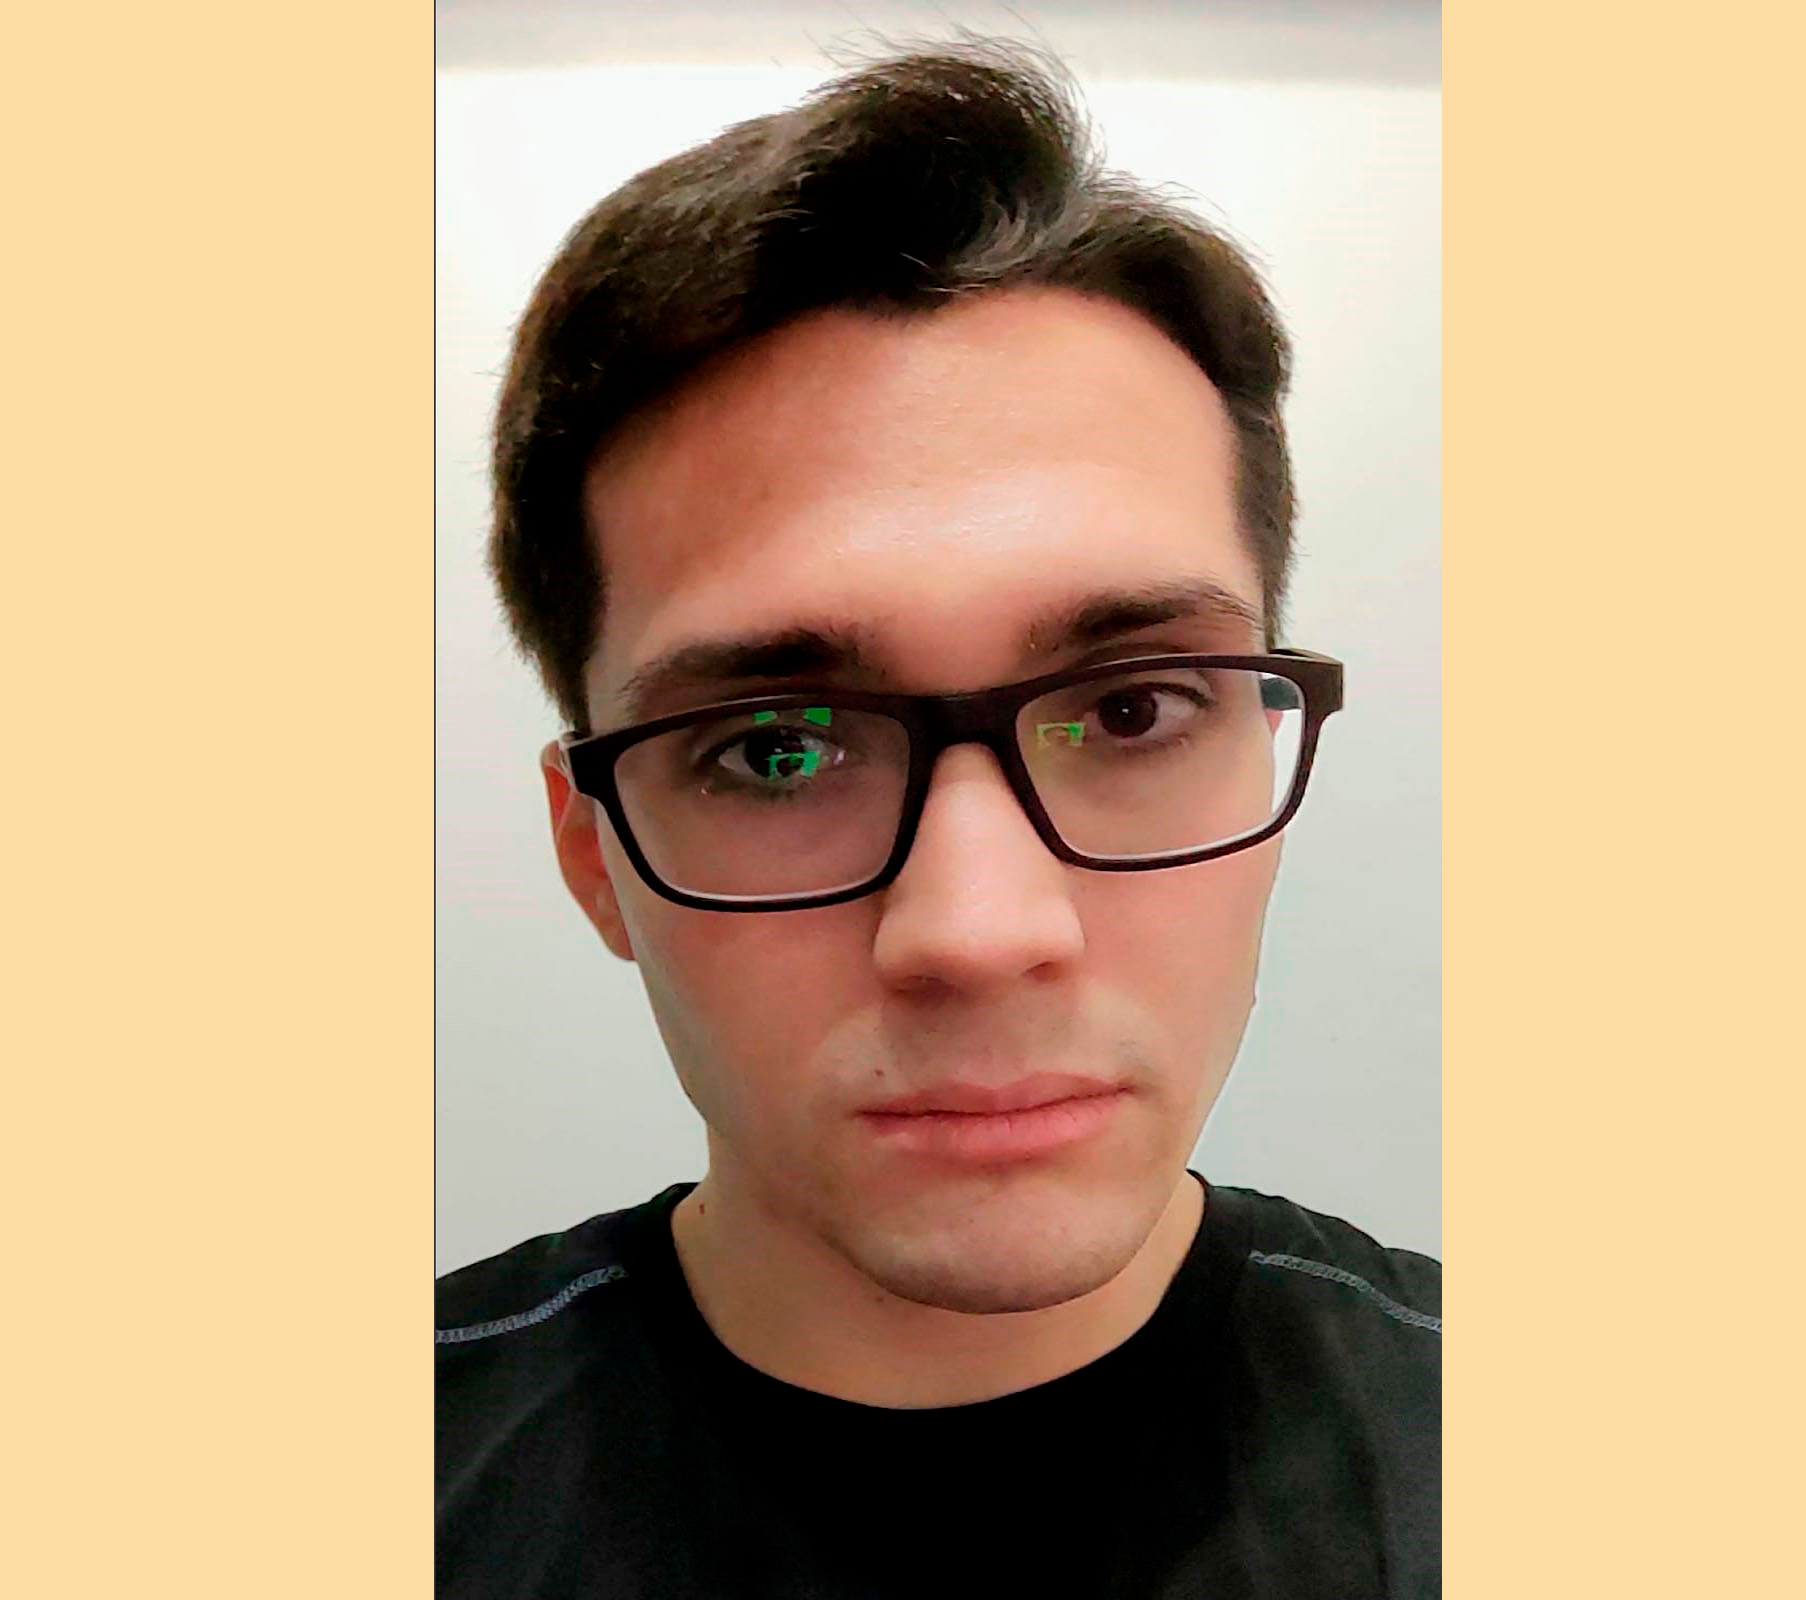
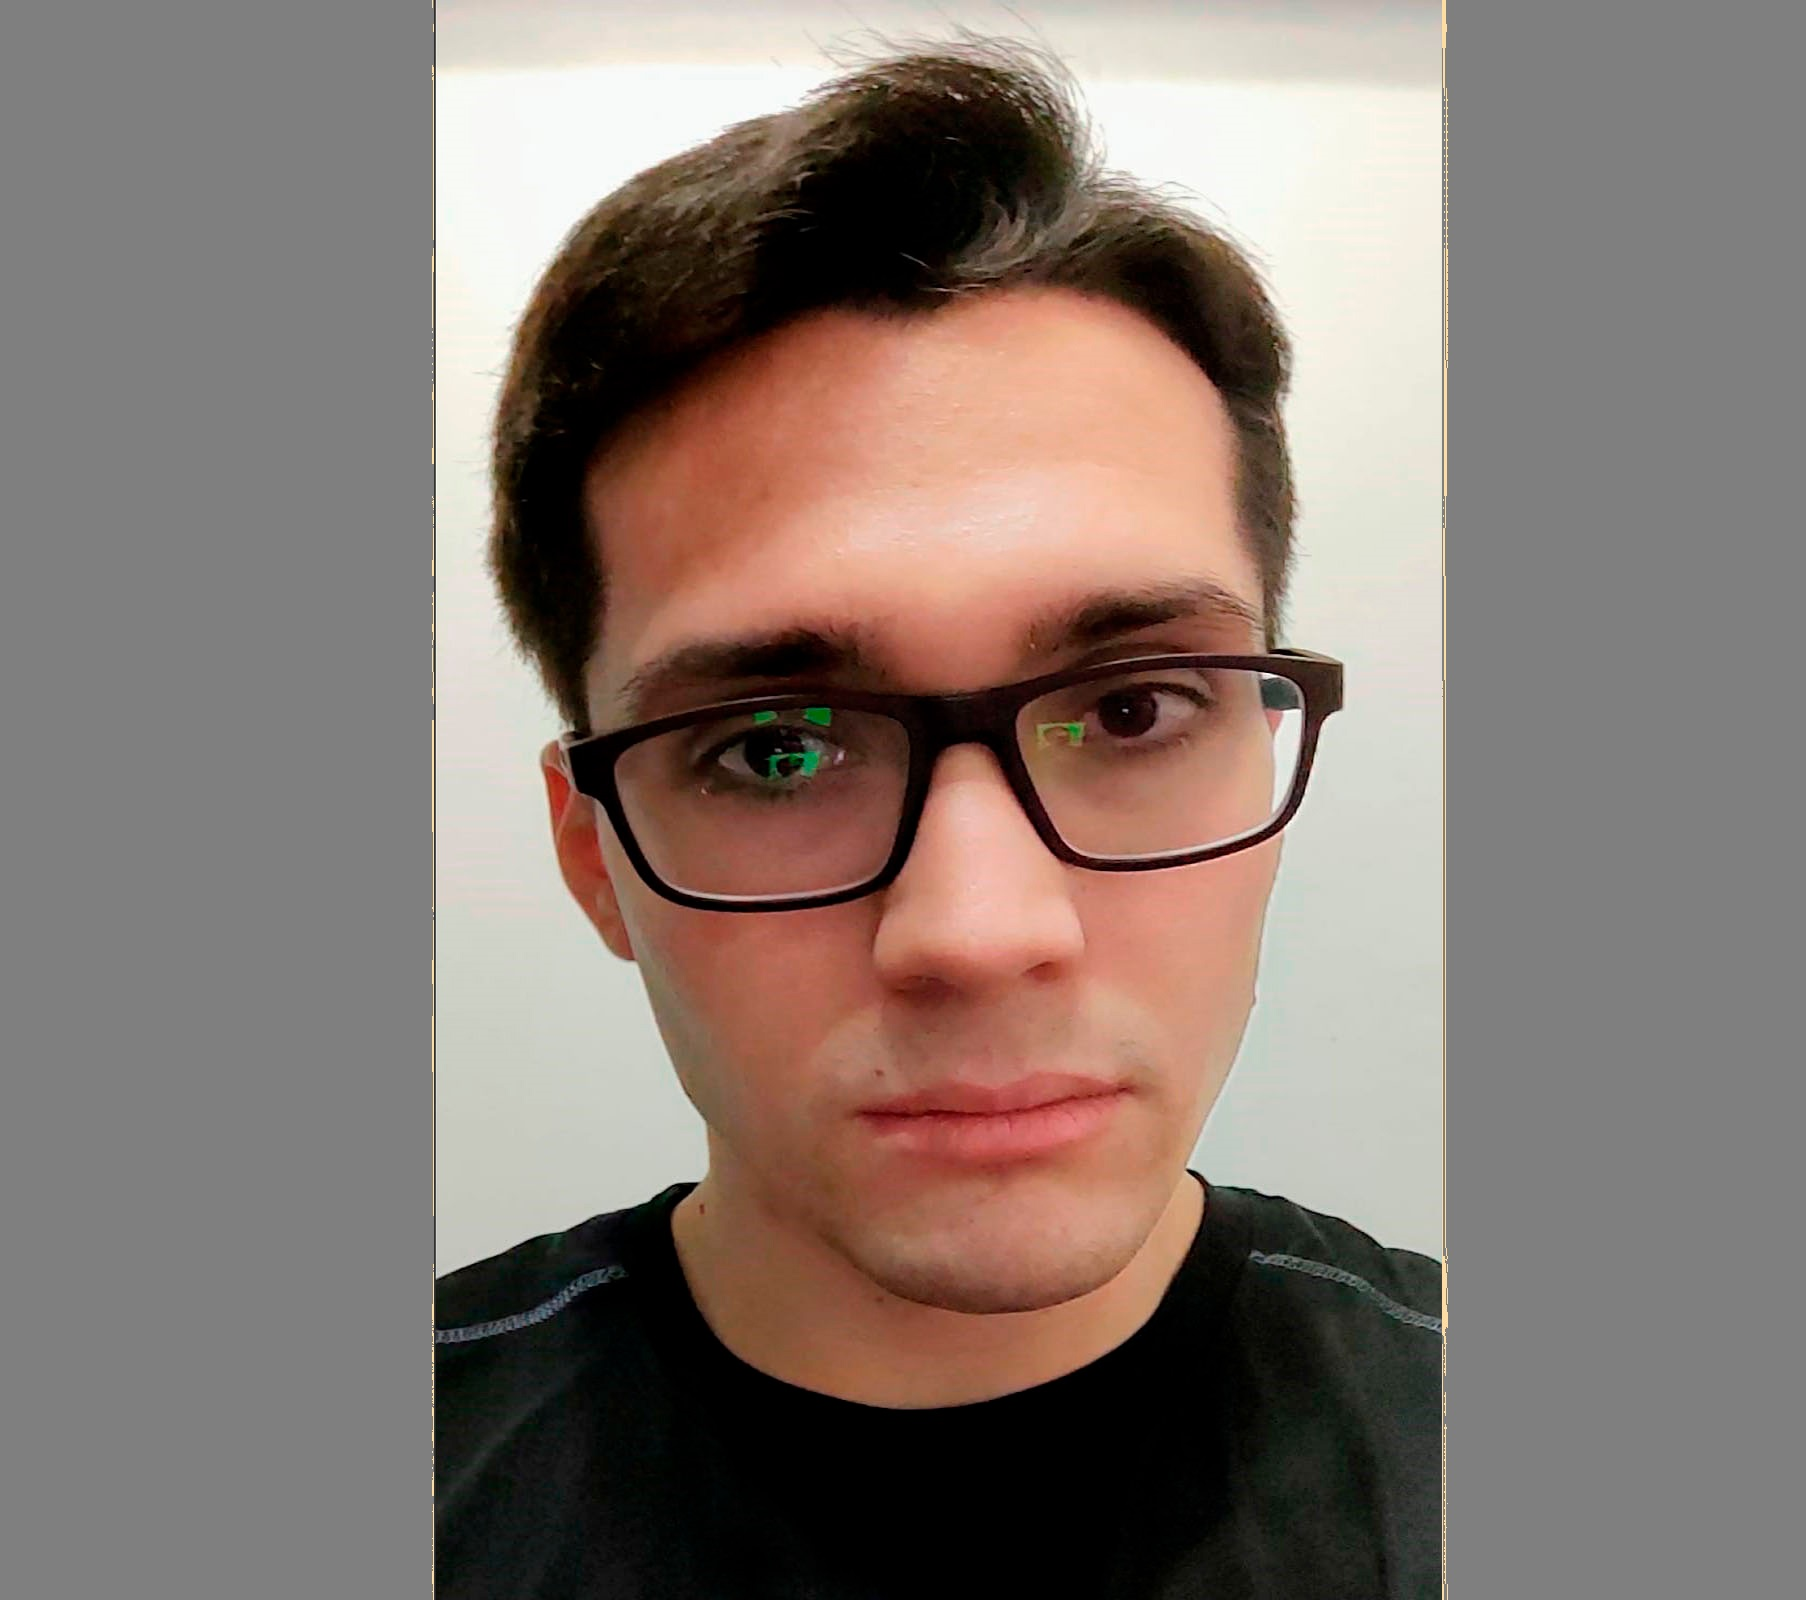
estilos de bootstrap

diff --git a/index.html b/index.html
@@ -2,67 +2,118 @@
 <html lang="es">
 
 <head>
-    <meta charset="utf-8">
-    <meta name="viewport" content="width=device-width, initial-scale=1">
-    <link href="https://cdn.jsdelivr.net/npm/bootstrap@5.0.2/dist/css/bootstrap.min.css" rel="stylesheet"
-        integrity="sha384-EVSTQN3/azprG1Anm3QDgpJLIm9Nao0Yz1ztcQTwFspd3yD65VohhpuuCOmLASjC" crossorigin="anonymous">
-    <link rel="stylesheet" href="./css/style.css">
-    <title>Curriculum Vitae</title>
+  <meta charset="utf-8">
+  <meta name="viewport" content="width=device-width, initial-scale=1">
+  <link rel="icon" href="./img/emoji_people_FILL0_wght400_GRAD0_opsz48.svg">
+  <link href="https://cdn.jsdelivr.net/npm/bootstrap@5.2.3/dist/css/bootstrap.min.css" rel="stylesheet"
+    integrity="sha384-rbsA2VBKQhggwzxH7pPCaAqO46MgnOM80zW1RWuH61DGLwZJEdK2Kadq2F9CUG65" crossorigin="anonymous">
+  <link rel="stylesheet" href="./css/style.css">
+  <title>Curriculum Vitae</title>
 </head>
 
 <body>
-    <header>
-        <nav class="navbar navbar-expand-lg navbar-light">
-            <a class="navbar-brand" href="#">Curriculum Vitae</a>
-            <button class="navbar-toggler" type="button" data-toggle="collapse" data-target="#navbarNav" aria-controls="navbarNav" aria-expanded="false" aria-label="Toggle navigation">
-              <span class="navbar-toggler-icon"></span>
+  <header>
+    <nav class="navbar navbar-expand-lg navbar-dark bg-dark">
+      <div class="container-fluid">
+        <a class="navbar-brand" href="#">
+          <h1>Curriculum vitae</h1>
+        </a>
+        <button class="navbar-toggler" type="button" data-bs-toggle="collapse" data-bs-target="#navbarSupportedContent"
+          aria-controls="navbarSupportedContent" aria-expanded="false" aria-label="Toggle navigation">
+          <span class="navbar-toggler-icon"></span>
+        </button>
+        <div class="collapse navbar-collapse justify-content-end " id="navbarSupportedContent">
+          <ul class="navbar-nav mb-2 mb-lg-0">
+            <li class="nav-item">
+              <a class="nav-link " aria-current="page" href="#informacionPersonal">Información Personal</a>
+            </li>
+            <li class="nav-item">
+              <a class="nav-link" href="#experiencia">Experiencia</a>
+            </li>
+            <li class="nav-item">
+              <a class="nav-link" href="#habilidades">Habilidades</a>
+            </li>
+          </ul>
+        </div>
+      </div>
+    </nav>
+  </header>
+
+
+  <main>
+    <section class="container mt-3">
+      <div class="text-center">
+        <h2 id="informacionPersonal" class="bg-dark text-uppercase d-inline px-3">Información personal</h2>
+      </div>
+      <div class="row mt-2">
+        <div class="col-6">
+          <img src="./img/foto-de-perfil.jpg" alt="foto-de-perfil" class="img-fluid rounded-circle border border-dark">
+        </div>
+        <div class="col-6">
+          <div class="text-center">
+            <h3 class="px-3 bg-dark d-inline">Miranda Patricio</h3>
+          </div>
+          <p class="pt-3 text-center border-bottom ">Programador • Desarrollador</p>
+          <p class="text-center">Sobre mi</p>
+          <p> Estudiante de desarrollador web, con conocimientos en lenguajes Frontend y Backend. Actualmente
+            cursando el segundo año de la carrera. También egresado en técnico electrónico y con experiencia en
+            reparación y mantenimiento de software y hardware de PC. Cuento con cursos realizados y soy
+            autodidacta con todo lo relacionado a programación e informática, dispuesto a seguir aprendiendo y
+            formarme en lo que me gusta.
+          </p>
+          <p>
+            <a class="btn btn-dark" data-bs-toggle="collapse" href="#collapseExample" role="button"
+              aria-expanded="false" aria-controls="collapseExample">
+              Información personal
+            </a>
+          </p>
+          <div class="collapse" id="collapseExample">
+            <div class="card card-body bg-dark">
+              <p class="fst-italic"> Castelar, Buenos Aires</p>
+              <p class="fw-bold">• Fecha de nacimiento: <span class="fw-normal">18/02/1997</span></p>
+              <p class="fw-bold">• Telefono / celular: <span class="fw-normal">11-32675137</span></p>
+              <p class="fw-bold">• E-mail: <span class="fw-normal">patricio.97m@gmail.com</span></p>
+              <p class="fw-bold">• LinkedIn: <span class="fw-normal"> <a
+                    href="https://www.linkedin.com/in/patricio-mir97/"
+                    target="_blank">https://www.linkedin.com/in/patricio-mir97/</a></span></p>
+            </div>
+          </div>
+        </div>
+      </div>
+    </section>
+
+    <section class="container mt-5">
+      <div class="text-center">
+        <h2 id="experiencia" class="bg-dark text-uppercase d-inline px-3">Experiencia</h2>
+      </div>
+      <div class="accordion mt-2" id="accordionExample">
+        <div class="accordion-item bg-dark">
+          <h2 class="accordion-header" id="headingThree">
+            <button class="accordion-button collapsed bg-primary bg-opacity-50 text-light" type="button" data-bs-toggle="collapse" data-bs-target="#collapseThree" aria-expanded="false" aria-controls="collapseThree">
+              Reparación de PC
             </button>
-            <div class="collapse navbar-collapse" id="navbarNav">
-              <ul class="navbar-nav">
-                <li class="nav-item active">
-                  <a class="nav-link" href="#informacionPersonal">Información Personal</a>
-                </li>
-                <li class="nav-item">
-                  <a class="nav-link" href="#">Features</a>
-                </li>
-                <li class="nav-item">
-                  <a class="nav-link" href="#">Pricing</a>
-                </li>
-                <li class="nav-item">
-                  <a class="nav-link disabled" href="#">Disabled</a>
-                </li>
-              </ul>
+          </h2>
+          <div id="collapseThree" class="accordion-collapse collapse" aria-labelledby="headingThree" data-bs-parent="#accordionExample">
+            <div class="accordion-body">
+              <strong>This is the third item's accordion body.</strong> It is hidden by default, until the collapse plugin adds the appropriate classes that we use to style each element. These classes control the overall appearance, as well as the showing and hiding via CSS transitions. You can modify any of this with custom CSS or overriding our default variables. It's also worth noting that just about any HTML can go within the <code>.accordion-body</code>, though the transition does limit overflow.
             </div>
-          </nav>
-    </header>
+          </div>
+        </div>
+      </div>
+    </section>
 
 
-    <main>
-        <section class="container-fluid">
-            <h2 id="informacionPersonal">Información personal</h2>
-            <div class="row">
-                <div class="col-6">
-                    <img src="./img/foto-de-perfil.jpg" alt="foto-de-perfil" class="img-fluid">
-                </div>
-                <div class="col-6">
-                    <p>Programador • Desarrollador</p>
-                </div>
-            </div>
+    <section class="container-fluid">
+      <h2 id="habilidades">Habilidades</h2>
+    </section>
+  </main>
+  <footer>
 
-        </section>
-        <section class="container-fluid">
-            <h2 id="experiencia">Experiencia</h2>
-        </section>
-        <section class="container-fluid">
-            <h2 id="habilidades">Habilidades</h2>
-        </section>
-    </main>
-    <footer>
-
-    </footer>
+  </footer>
 </body>
-<script src="https://cdn.jsdelivr.net/npm/bootstrap@5.0.2/dist/js/bootstrap.bundle.min.js"
-    integrity="sha384-MrcW6ZMFYlzcLA8Nl+NtUVF0sA7MsXsP1UyJoMp4YLEuNSfAP+JcXn/tWtIaxVXM"
-    crossorigin="anonymous"></script>
+<script src="https://cdn.jsdelivr.net/npm/@popperjs/core@2.9.2/dist/umd/popper.min.js"
+  integrity="sha384-IQsoLXl5PILFhosVNubq5LC7Qb9DXgDA9i+tQ8Zj3iwWAwPtgFTxbJ8NT4GN1R8p" crossorigin="anonymous"></script>
+<script src="https://cdn.jsdelivr.net/npm/bootstrap@5.0.2/dist/js/bootstrap.min.js"
+  integrity="sha384-cVKIPhGWiC2Al4u+LWgxfKTRIcfu0JTxR+EQDz/bgldoEyl4H0zUF0QKbrJ0EcQF" crossorigin="anonymous"></script>
 
 </html>

diff --git a/css/style.css b/css/style.css
@@ -3,12 +3,18 @@
 *{
     padding: 0;
     margin: 0;
+    color: white;
 }
 body{
     font-family: 'Manrope', sans-serif;
     font-family: 'Rubik', sans-serif;
-    background-color: #edebc9;
+    background-color: #1a3c7d;
 }
-header{
-    background-color: #9dbfaf;
+
+img{
+    width: 25em;
+    height: 25em;
+}
+h1{
+    font-size:xx-large;
 }
